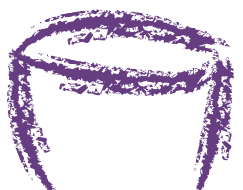
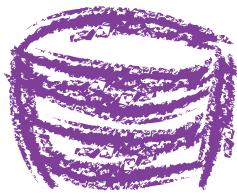
New graphics.

diff --git a/src/me/nrubin29/circlesorter/CircleSorter.java b/src/me/nrubin29/circlesorter/CircleSorter.java
@@ -195,7 +195,7 @@ public class CircleSorter extends JComponent {
 
     public void addColor(Color color, int x) {
         colors.add(color);
-        bins.add(new Bin(color, GameImage.valueOf("BALL_" + color.name().toUpperCase()), x));
+        bins.add(new Bin(color, GameImage.valueOf("BIN_" + color.name().toUpperCase()), x));
     }
 
     public void addPowerup(Powerup p) {

diff --git a/src/me/nrubin29/circlesorter/powerup/SlowPowerup.java b/src/me/nrubin29/circlesorter/powerup/SlowPowerup.java
@@ -10,7 +10,7 @@ import java.awt.event.ActionListener;
 public class SlowPowerup extends Powerup {
 
     public SlowPowerup(Integer x, Integer y) {
-        super(GameImage.BALL_PURPLE, x, y);
+        super(GameImage.SNAIL_1, x, y);
     }
 
     @Override

diff --git a/src/me/nrubin29/circlesorter/GameImage.java b/src/me/nrubin29/circlesorter/GameImage.java
@@ -16,6 +16,8 @@ public enum GameImage {
     BIN_RED,
     BIN_YELLOW,
     HEART,
+    SNAIL_1,
+    SNAIL_2,
     MULTIBALL;
 
 
